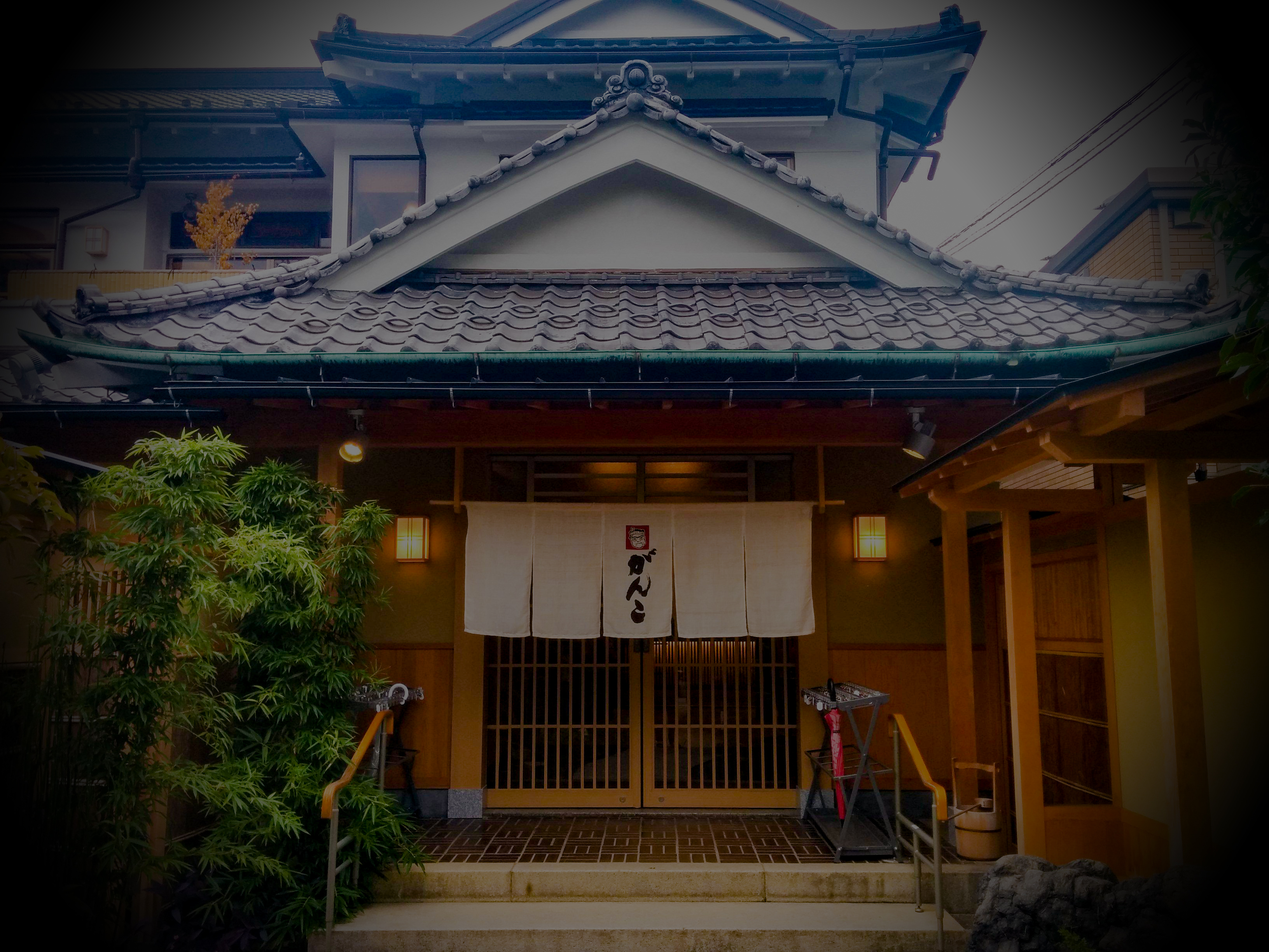
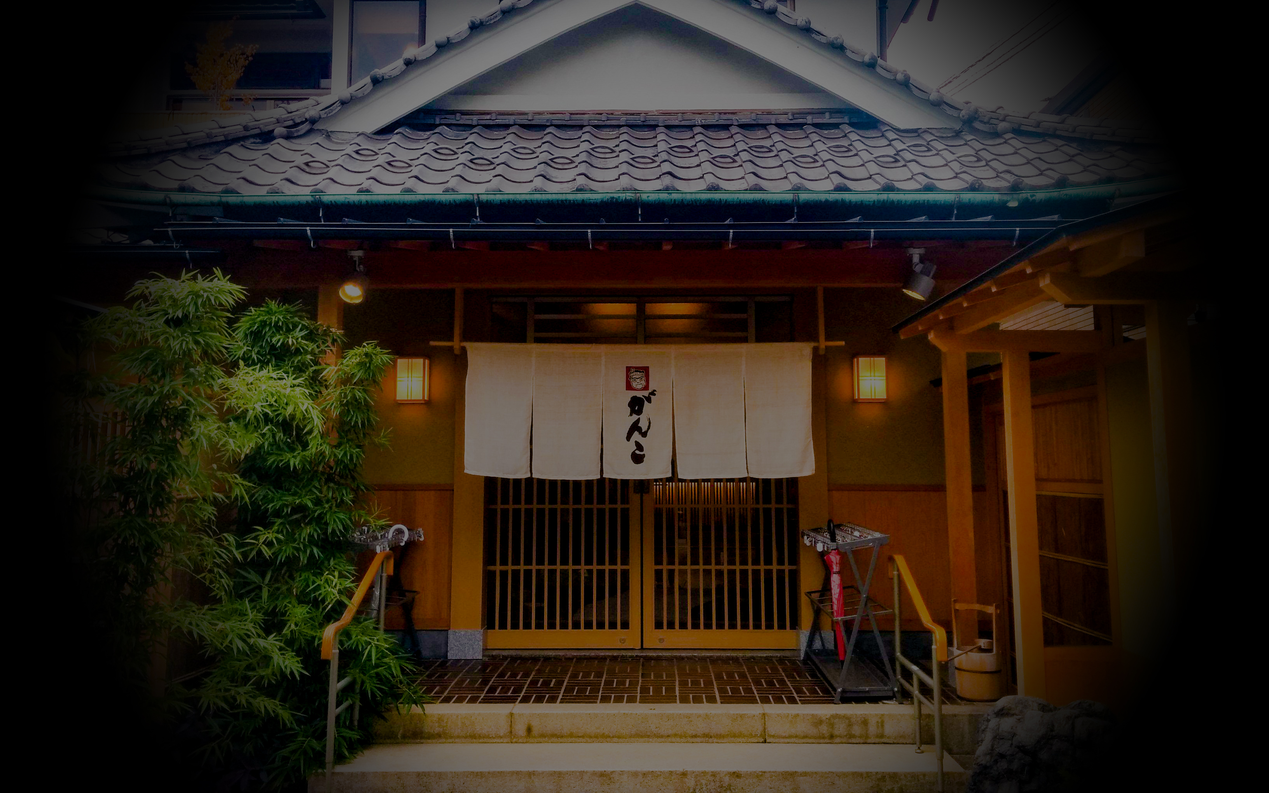
upd セピア

diff --git a/src/scripts/Roulette.js b/src/scripts/Roulette.js
@@ -10,13 +10,14 @@ const Roulette = () => {
   /**
    * Variables
    */
-  const $ROULETTE = document.getElementById('roulette')
-  const $TRIGGER = document.getElementById('trigger')
-  const $PLACEHOLDER = document.getElementById('placeholder')
-  const $HEADER_TITLE = document.getElementById('header__title')
-  const $HEADER_LOGO = document.getElementById('header__logo')
-  const $ATARU = document.getElementById('ataru')
-  const $ATARU_WRAPPER = document.getElementById('ataru__wrapper')
+  const $ROULETTE = document.querySelector('#roulette')
+  const $TRIGGER = document.querySelector('#trigger')
+  const $PLACEHOLDER = document.querySelector('#placeholder')
+  const $HEADER_TITLE = document.querySelector('#header__title')
+  const $HEADER_LOGO = document.querySelector('#header__logo')
+  const $ATARU = document.querySelector('#ataru')
+  const $ATARU_WRAPPER = document.querySelector('#ataru__wrapper')
+  const $ENDING = document.querySelector('.ending')
   const DELAY = 1.618
   const DUMMY = [
     '今だから話せる失敗談を教えてください。',
@@ -42,12 +43,12 @@ const Roulette = () => {
   const buttonEventSwither = event => {
     $PLACEHOLDER.classList.remove('-active')
     if (roulette_flag === false) {
-      playAudio({ source: AUDIO_DRUM_REPEAT, loop: true })
+      playAudio({ source: AUDIO_DRUM_REPEAT, loop: true, volume: 1 })
       startAnimation()
       startRoulette()
       startButton()
     } else {
-      playAudio({ source: AUDIO_DRUM_NED, loop: false })
+      playAudio({ source: AUDIO_DRUM_NED, loop: false, volume: 1 })
       stopAnimation()
       stopRoulette()
       stopButton()
@@ -57,9 +58,10 @@ const Roulette = () => {
   /**
    * Audio
    */
-  const playAudio = ({ source = null, loop = false }) => {
+  const playAudio = ({ source = null, loop = false, volume = 1 } = {}) => {
     INSTANCE_ADUIO.currentTime = 0
     INSTANCE_ADUIO.src = source
+    INSTANCE_ADUIO.volume = volume
     INSTANCE_ADUIO.loop = loop
     INSTANCE_ADUIO.play()
   }
@@ -67,7 +69,7 @@ const Roulette = () => {
   /**
    * Animation
    */
-  const startAnimation = event => {
+  const startAnimation = () => {
     const TL = gsap.timeline()
     if (first_flag === false) {
       first_flag = true
@@ -174,7 +176,7 @@ const Roulette = () => {
       })
     }
   }
-  const stopAnimation = event => {
+  const stopAnimation = () => {
     $ATARU.classList.add('-stop')
     const TL = gsap.timeline()
     TL.to($ROULETTE, 0.1618, {
@@ -189,7 +191,7 @@ const Roulette = () => {
   /**
    * Roulette
    */
-  const startRoulette = event => {
+  const startRoulette = () => {
     // 前のテーマを削除
     if ($active_theme !== undefined) {
       $active_theme.remove()
@@ -218,7 +220,7 @@ const Roulette = () => {
       $active_theme.classList.add('-active')
     }, 80)
   }
-  const stopRoulette = event => {
+  const stopRoulette = () => {
     // インターバルをクリア
     clearTimeout(interval)
     // フラグを設定
@@ -239,11 +241,11 @@ const Roulette = () => {
   /**
    * Button
    */
-  const startButton = event => {
+  const startButton = () => {
     $TRIGGER.innerHTML = '決　定'
     $TRIGGER.classList.add('-stop')
   }
-  const stopButton = event => {
+  const stopButton = () => {
     $TRIGGER.classList.remove('-stop')
     $TRIGGER.innerHTML = '開　始'
   }
@@ -251,7 +253,7 @@ const Roulette = () => {
   /**
    * Triggers
    */
-  $TRIGGER.addEventListener('click', event => {
+  $TRIGGER.addEventListener('click', () => {
     buttonEventSwither()
   })
 
@@ -288,11 +290,16 @@ const Roulette = () => {
         break
       // F1
       case 112:
-        playAudio({ source: AUDIO_ENDING, loop: true })
+        $ENDING.classList.add('-active')
+        playAudio({ source: AUDIO_ENDING, loop: true, volume: 1 })
         break
       // F2
       case 113:
-        playAudio({ source: AUDIO_NOISE, loop: true })
+        playAudio({ source: AUDIO_NOISE, loop: true, volume: 0.1618 })
+        break
+      // F3
+      case 114:
+        INSTANCE_ADUIO.pause()
         break
       default:
         break

diff --git a/src/pages/index.js b/src/pages/index.js
@@ -7,6 +7,7 @@ import Theme01 from '../components/Theme01'
 import Theme02 from '../components/Theme02'
 import Theme03 from '../components/Theme03'
 import Background from '../components/Background'
+import Ending from '../components/Ending'
 
 import Roulette from '../scripts/Roulette'
 
@@ -39,6 +40,7 @@ const IndexPage = () => {
           <button id="trigger">開　始</button>
         </main>
         <Background />
+        <Ending />
       </div>
     </>
   )

diff --git a/src/styles/_block/_ending.scss b/src/styles/_block/_ending.scss
@@ -1,0 +1,22 @@
+@charset "UTF-8";
+
+/* ataru
+   ========================================================================== */
+.ending {
+  width: 100vw;
+  min-height: 100vh;
+  position: absolute;
+  left: 0;
+  top: 0;
+  backdrop-filter: blur(5px) sepia(90%);
+  z-index: 999;
+  display: flex;
+  align-items: center;
+  justify-content: center;
+  opacity: 0;
+  pointer-events: none;
+  transition: opacity 3.4s ease 0s;
+  &.-active {
+    opacity: 1;
+  }
+}

diff --git a/src/components/Background.js b/src/components/Background.js
@@ -9,7 +9,6 @@ const Stage = styled.aside`
   left: 0;
   top: 0;
   z-index: 0;
-  border: 1px solid black;
   background: url(${Ganko}) no-repeat center center;
   background-size: cover;
 `

diff --git a/src/components/Ending.js b/src/components/Ending.js
@@ -1,0 +1,11 @@
+import React from 'react'
+
+const Ending = () => {
+  return (
+    <>
+      <aside className="ending"></aside>
+    </>
+  )
+}
+
+export default Ending

diff --git a/src/styles/style.scss b/src/styles/style.scss
@@ -20,3 +20,4 @@
 @import '_block/_trigger';
 @import '_block/_header';
 @import '_block/_ataru';
+@import '_block/_ending';
